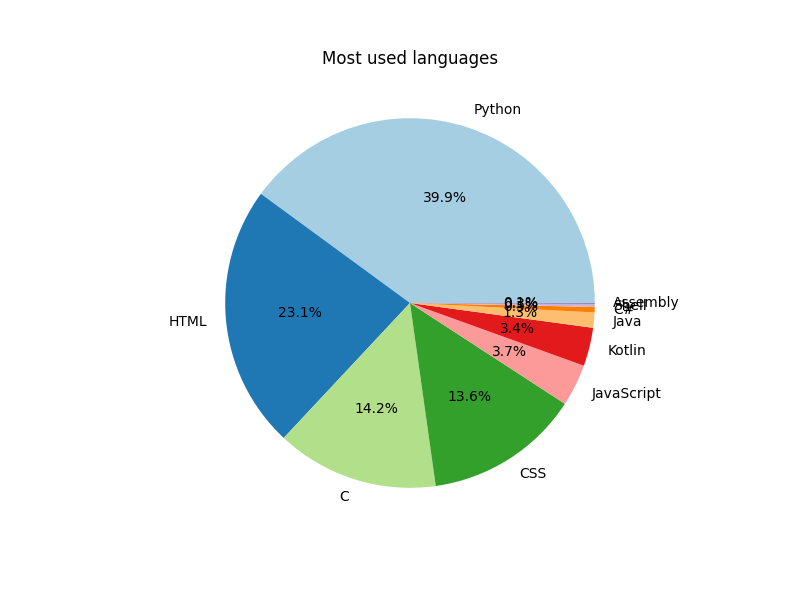
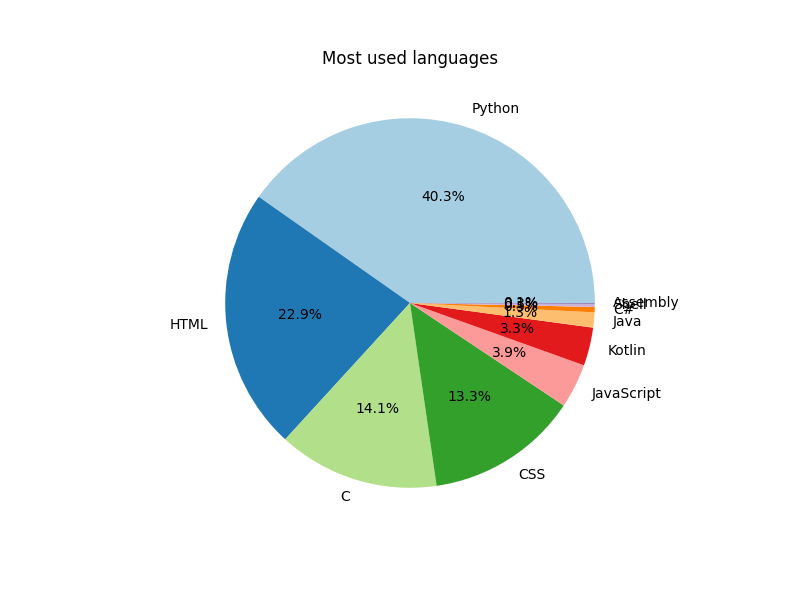
Mise à jour automatique du README avec les statistiques des langages

diff --git a/README.md b/README.md
@@ -46,11 +46,11 @@ Here are the languages I used:
 
 ![Languages used](languages.png)
 
-- **Python**: 472760 lines
-- **HTML**: 273282 lines
+- **Python**: 479802 lines
+- **HTML**: 273474 lines
 - **C**: 168065 lines
-- **CSS**: 160897 lines
-- **JavaScript**: 43470 lines
+- **CSS**: 159028 lines
+- **JavaScript**: 46278 lines
 - **Kotlin**: 39811 lines
 - **Java**: 15756 lines
 - **C#**: 5583 lines
